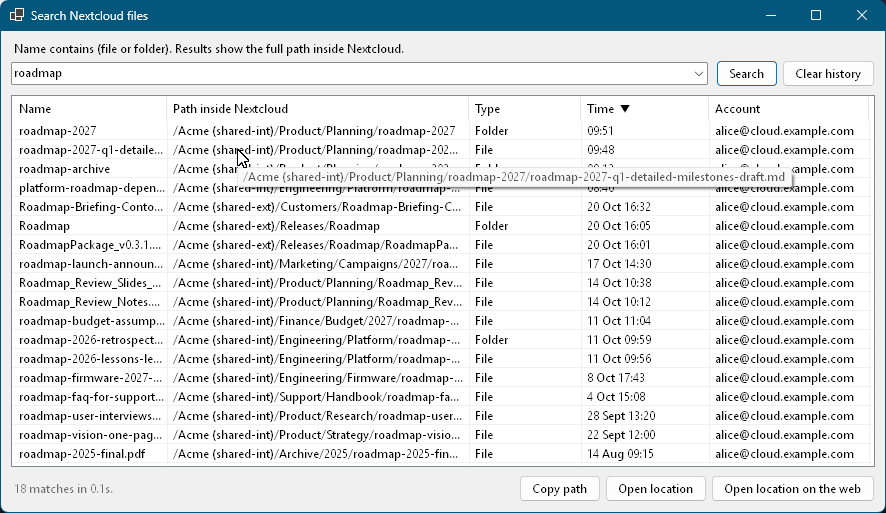
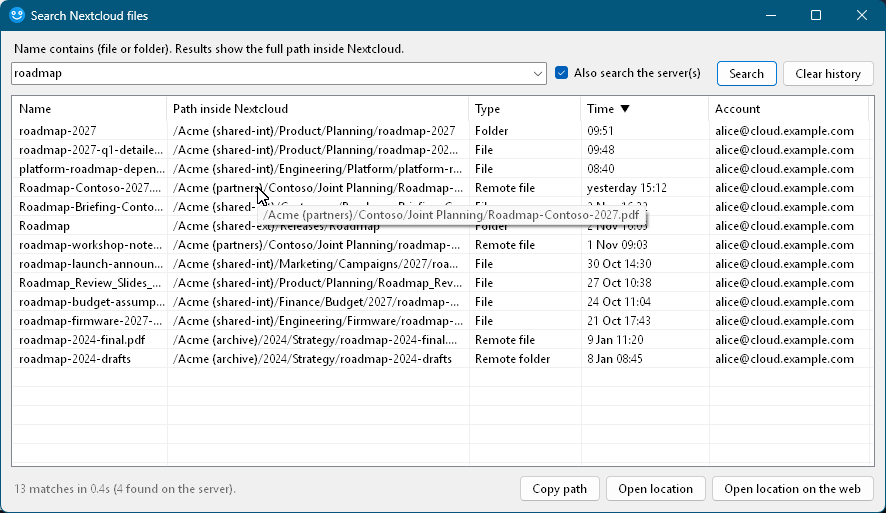
Update README screenshots
- Search window: shows the "Also search the server(s)" option, results from the
  synced folders and from the server, and the app logo in the title bar.
- Tray menu: includes "App passwords..." and the hint on the title line.
- New screenshot of the App passwords window.
All screenshots use made-up data.

diff --git a/README.md b/README.md
@@ -11,9 +11,9 @@
 </p>
 
 <p align="center">
-  <img src="docs/images/tray-menu.png" alt="Nextcloud Companion tray menu" width="240">
+  <img src="docs/images/tray-menu.png" alt="Nextcloud Companion tray menu with the hint on the title line" width="250">
   &nbsp;&nbsp;
-  <img src="docs/images/search-window.png" alt="Nextcloud Companion file search window" width="560">
+  <img src="docs/images/search-window.png" alt="Nextcloud Companion file search window, with synced and server-only results" width="560">
 </p>
 
 The official client’s tray icon often stays silent: a red X with no message, a grey icon while another account is fine, or a green check while one server is down. The Files web app also hides the full path of a file. This app reads the desktop client’s own config, logs, and sync journals and shows that state directly. It does not replace the sync client.
@@ -65,7 +65,7 @@ Sources, all under the user profile:
 ## File search
 
 <p align="center">
-  <img src="docs/images/search-window.png" alt="File search window listing matches with their full Nextcloud paths and a tooltip showing a long path" width="720">
+  <img src="docs/images/search-window.png" alt="File search window listing matches from the synced folders and from the server with their full Nextcloud paths, and a tooltip showing a long path" width="720">
 </p>
 
 Search matches the file or folder name, not the whole path. It reads a copy of the sync journal (the live database stays with the desktop client). If a journal cannot be read, it falls back to the local disk.
@@ -77,6 +77,10 @@ Columns are name, Nextcloud path, type, last change, and account. Click a header
 ## App passwords
 
 **App passwords…** in the tray menu is where the app passwords are managed, one per account: pick the account, paste an [app password](https://docs.nextcloud.com/server/latest/user_manual/en/session_management.html#managing-devices) (create it in Nextcloud under Settings → Security → Devices & sessions), **Save password**, or **Forget**. The desktop client’s login token is not reused.
+
+<p align="center">
+  <img src="docs/images/app-passwords.png" alt="App passwords window: account, password field, Save password and Forget" width="520">
+</p>
 
 Passwords are stored with Windows DPAPI for the current user in `%AppData%\NextcloudCompanion\settings.json`. The file holds the encrypted blob, not the password text, and a saved password is never shown again.
 
@@ -142,7 +146,7 @@ Output: `artifacts\installer\NextcloudCompanion-Setup-<version>.exe`. The same t
 | `installer/NextcloudCompanion.iss` | Inno Setup script |
 | `build-installer.ps1`, `build-installer.cmd` | Publish, then compile the installer |
 | `NextcloudCompanion/app.ico`, `tools/make-icon.py` | Program icon and the script that generates it |
-| `docs/images/` | Logo and screenshots used in this README (the search screenshot uses made-up data) |
+| `docs/images/` | Logo and screenshots used in this README (the search and app password screenshots use made-up data) |
 
 Companion errors are appended to `%AppData%\NextcloudCompanion\error.log`.
 
